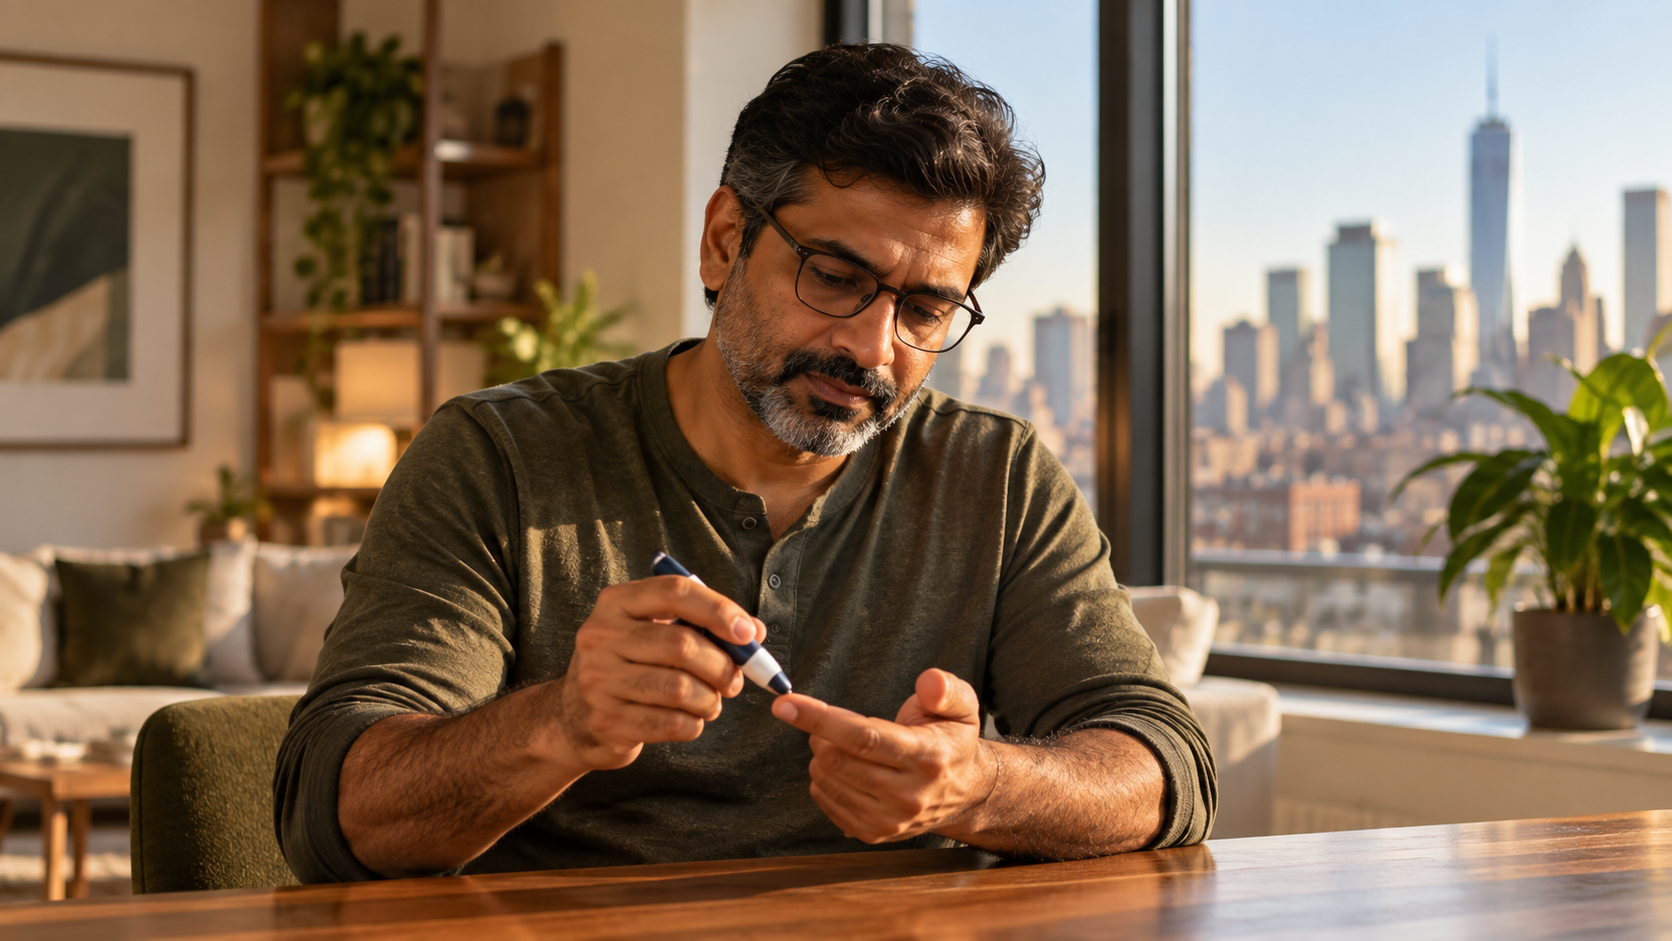
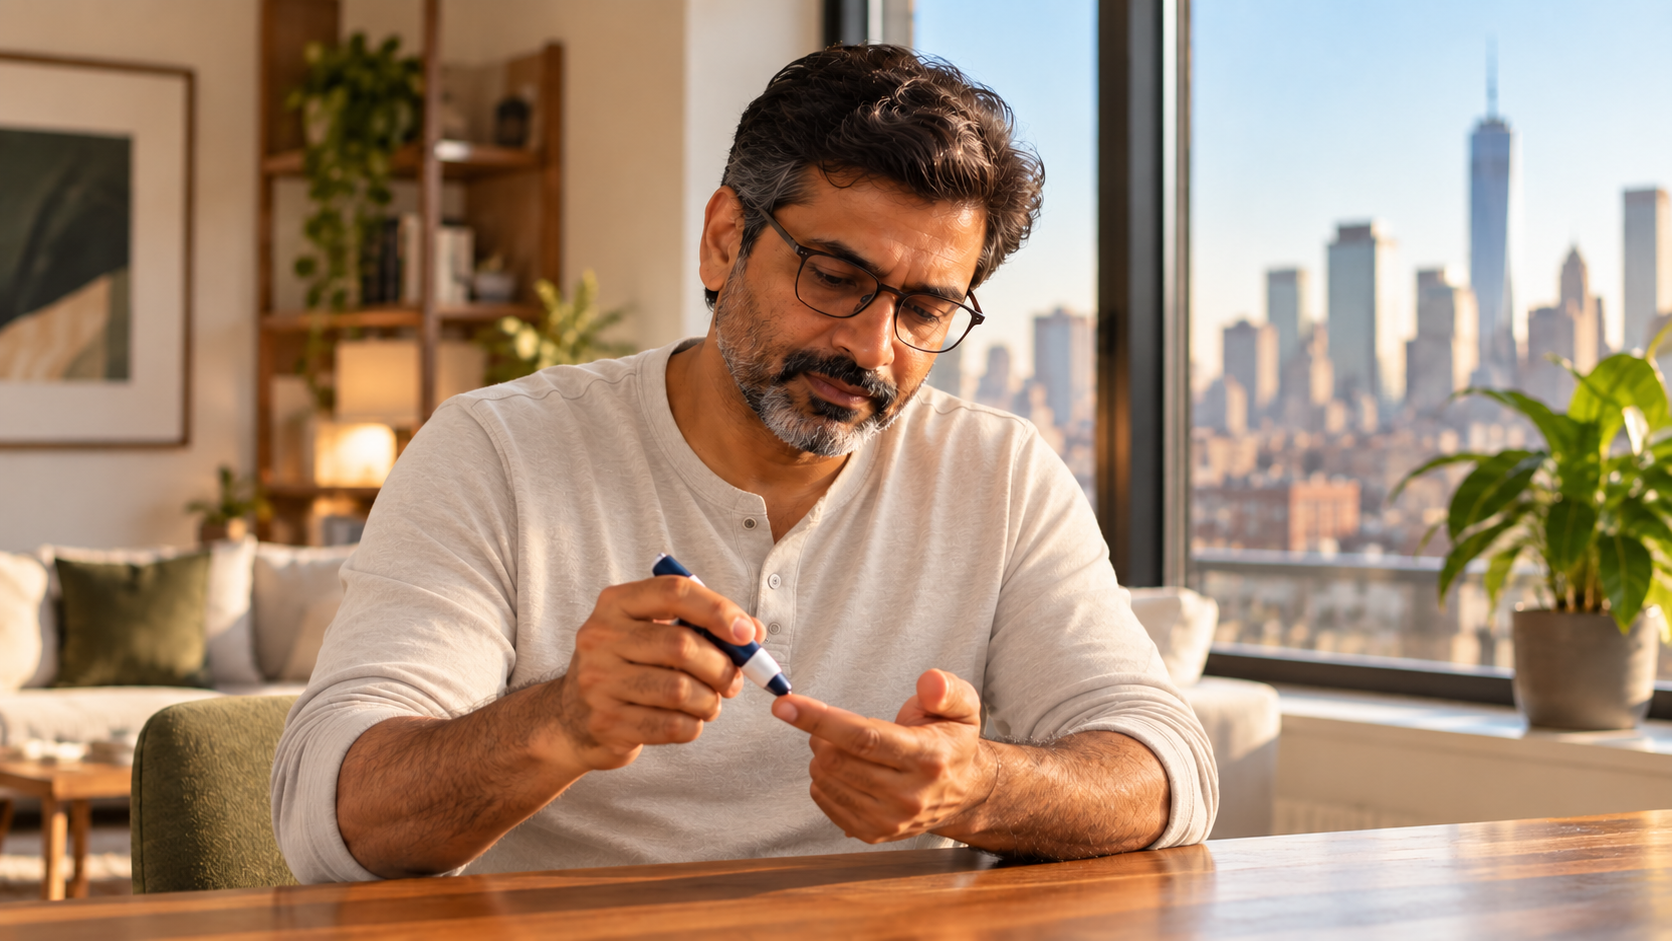
style: update asset images
Replace existing asset icons with updated versions to reflect design changes.

diff --git a/src/components/Approach.tsx b/src/components/Approach.tsx
@@ -1,11 +1,11 @@
 import { useLenis } from 'lenis/react';
 import { useReveal } from '@/hooks/useReveal';
 
-import om1 from '../../assets/om1.png';
+import om1 from '../../assets/a1.png';
 import om2 from '../../assets/om2.png';
-import om3 from '../../assets/om3.png';
-import om4 from '../../assets/om4.png';
-import om5 from '../../assets/om5.png';
+import om3 from '../../assets/a3.png';
+import om4 from '../../assets/a4.png';
+import om5 from '../../assets/a5.png';
 
 interface Step {
   id: string;

diff --git a/src/components/HealthConcerns.tsx b/src/components/HealthConcerns.tsx
@@ -3,9 +3,9 @@ import { ArrowLeft, ArrowRight } from 'lucide-react';
 import { useReveal } from '@/hooks/useReveal';
 import { useSmoothScroll } from '@/hooks/useSmoothScroll';
 
-import h1 from '../../assets/h-1.png';
+import h1 from '../../assets/h1.png';
 import h2 from '../../assets/h-2.png';
-import h3 from '../../assets/h-3.png';
+import h3 from '../../assets/h3.png';
 import h4 from '../../assets/h-4.png';
 import h5 from '../../assets/h-5.png';
 import h6 from '../../assets/h-6.png';
